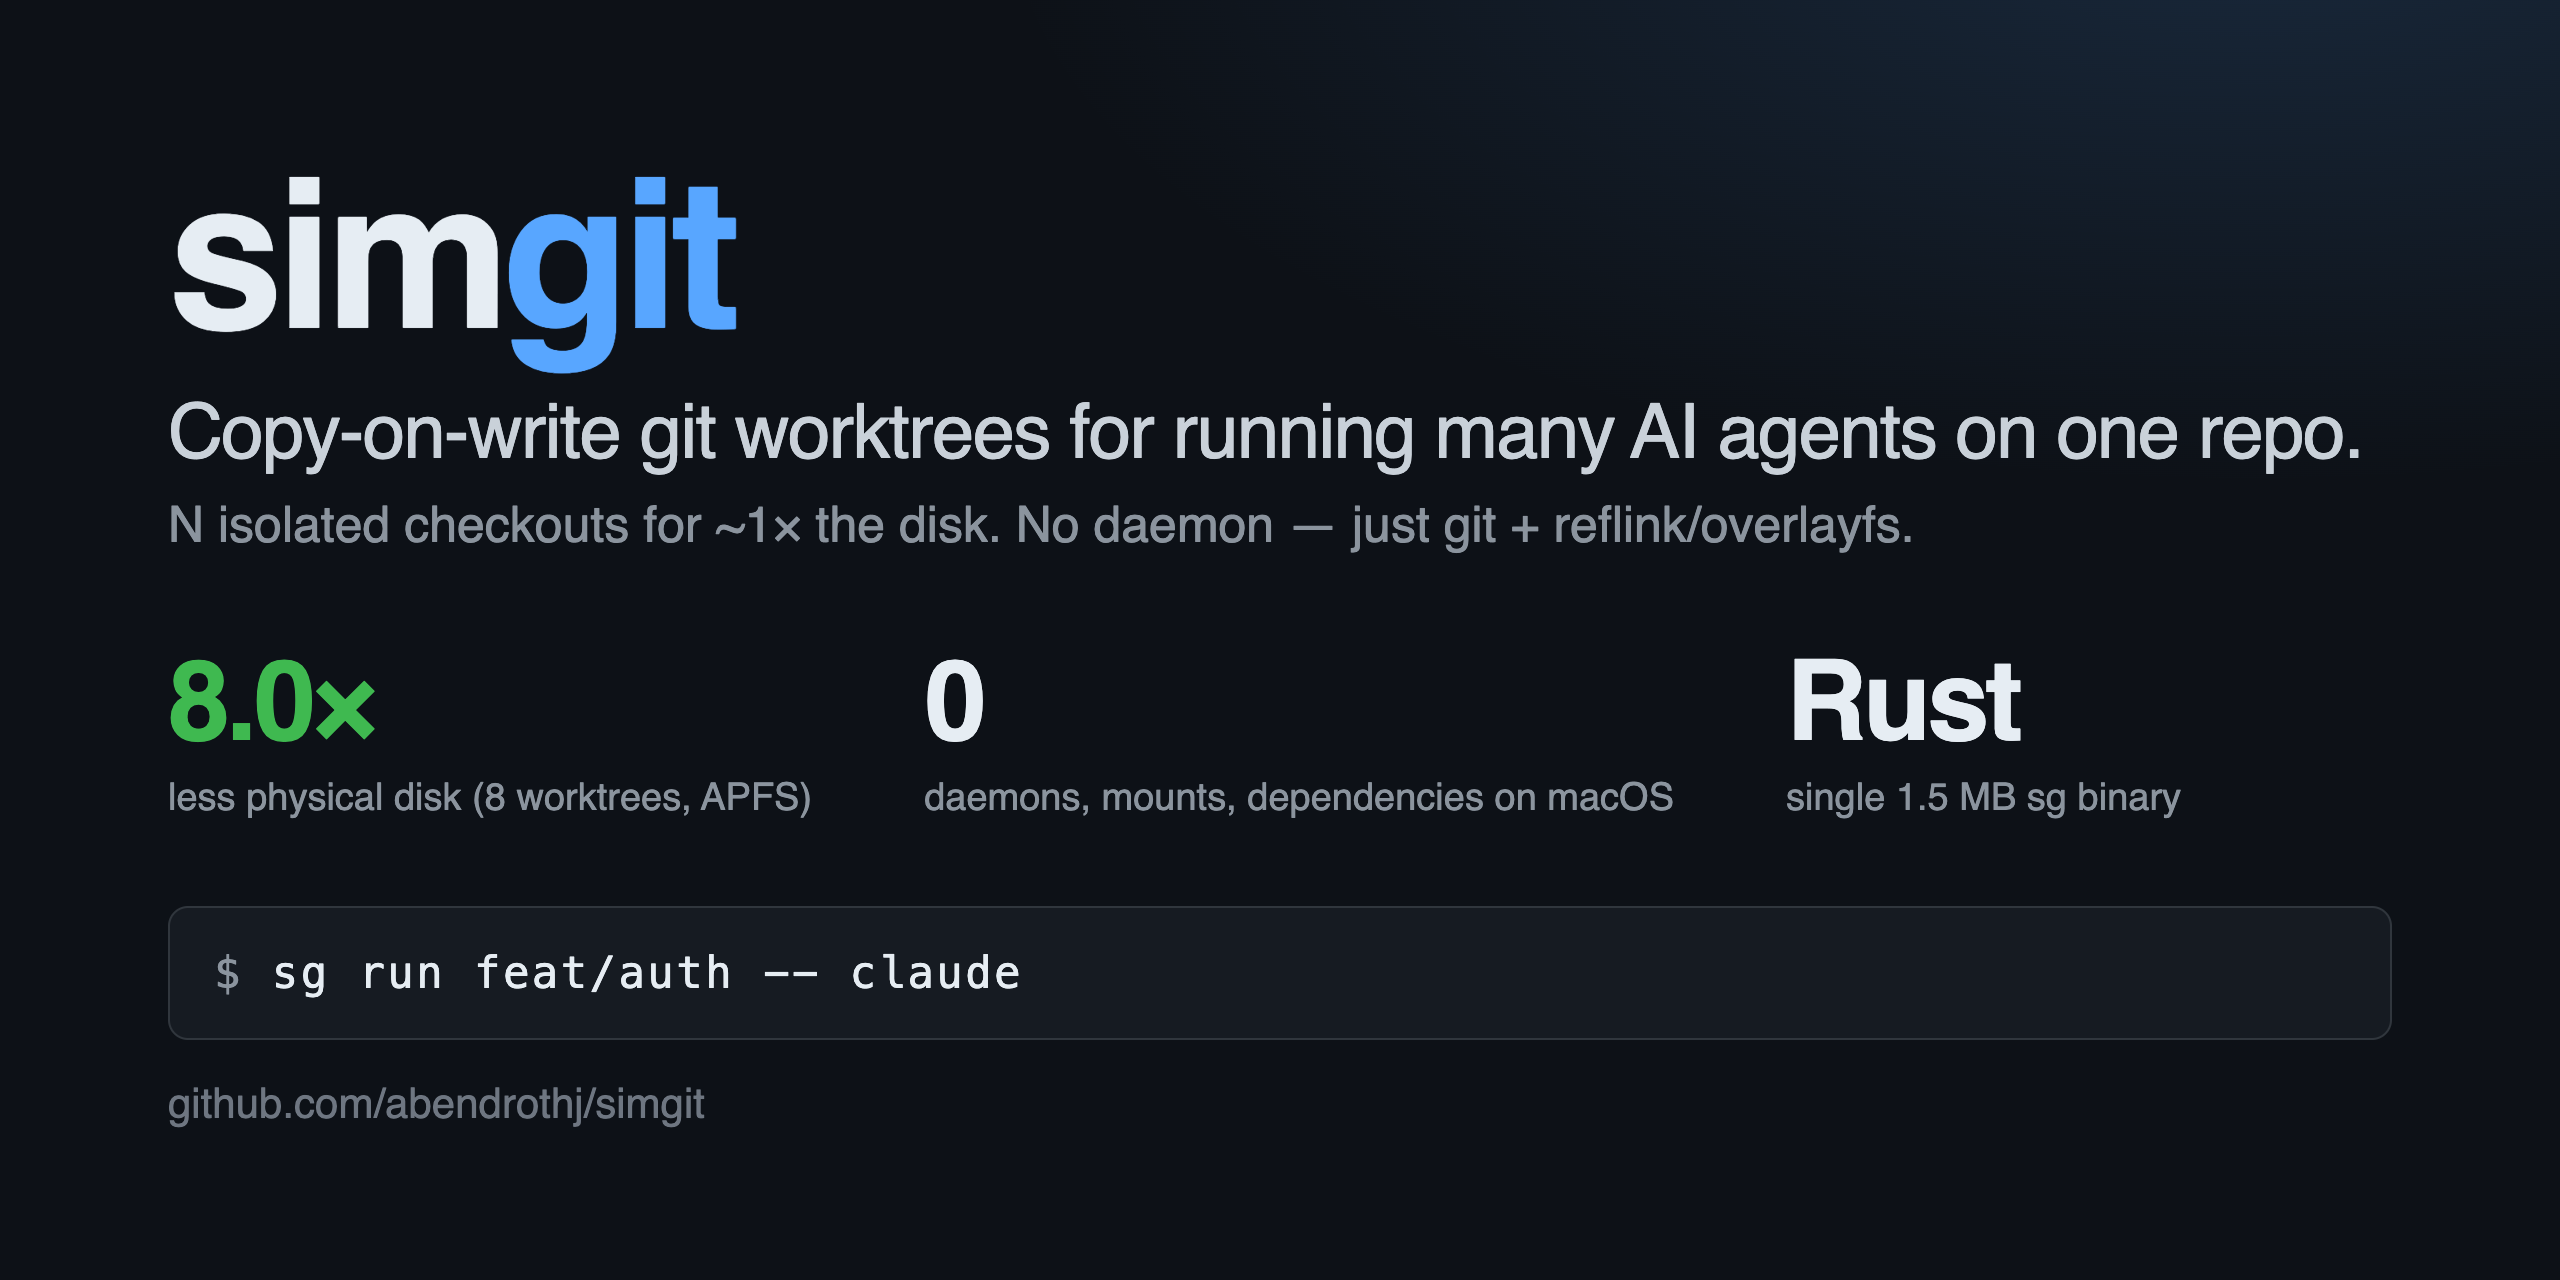
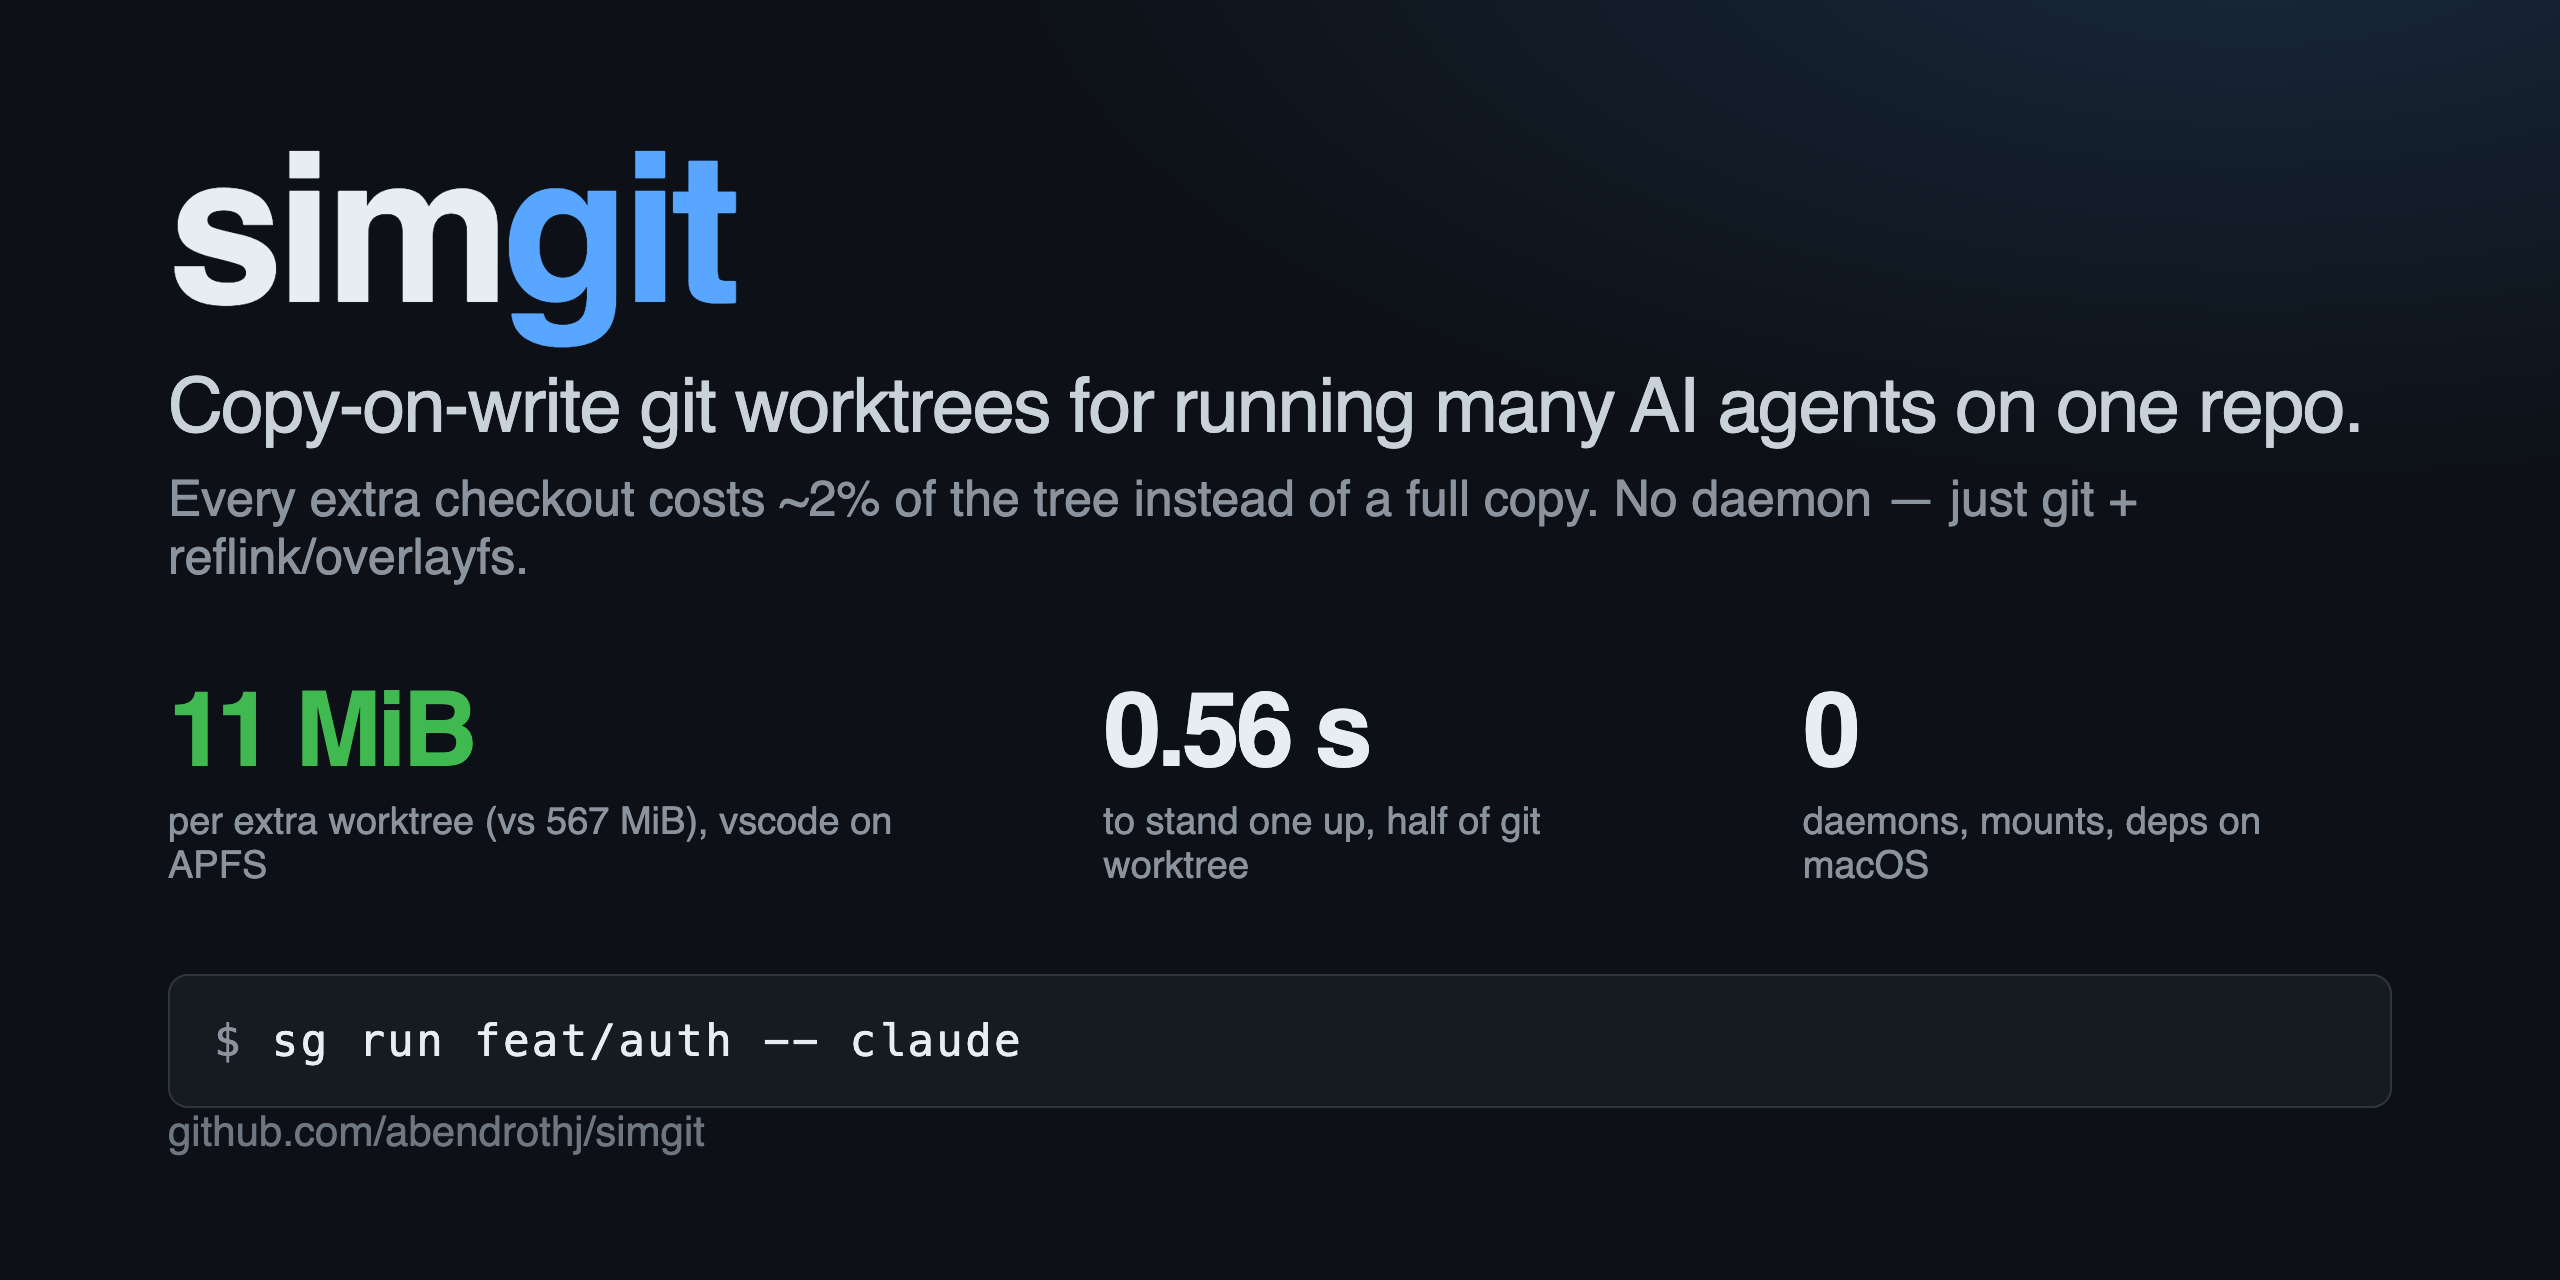
docs: state the marginal cost per worktree, not an N-multiple
"8x less physical disk with 8 worktrees" is the worktree count
restated: the same measurement yields 12x at twelve and 50x at fifty
without saying anything new, and it invites the reader to discount the
whole claim once they notice. The invariant is that simgit pays for one
tree plus a small per-worktree constant while plain git worktree pays
for a tree every time.

README and the benchmark doc now lead with that constant: on vscode
(18,707 files, 553 MiB) each additional worktree allocates ~11 MiB
against 567 MiB, so N worktrees cost tree + N x 11 MiB. The per-entry
figure (~0.30 KiB per tracked path, independent of content size) is
what makes it generalize, and it is stated as a fraction of the tree
that depends on average file size: ~2% for vscode, ~8% for 4 KiB files.

Also regenerates the social card, which led with 8.0x, and updates the
repository description to match.

diff --git a/README.md b/README.md
@@ -47,39 +47,39 @@ merges — no coordination layer, no conflict arbitration, no lock service.
 
 ### Measured
 
-Standing up eight isolated views of a 300 MiB synthetic tree (400 files) on APFS:
+The number that matters is the **marginal cost of one more worktree**, not a
+multiple: a multiple is just the worktree count restated. On a real checkout
+of `microsoft/vscode` (18,707 tracked files, 553 MiB), APFS, two runs each:
 
-| Path | Physical disk added | Cold setup |
+| | First extra worktree | Each one after that |
 |---|---:|---:|
-| 8 × `git worktree` | 2405.9–2583.4 MiB | 6.32–6.66 s |
-| 8 × `sg worktree` | 301.2 MiB | 14.10–14.15 s |
+| `git worktree` | 567 MiB (a full copy) | **567 MiB** (another full copy) |
+| `sg worktree` | ~564 MiB (one shared baseline) | **~11 MiB** (2% of the tree) |
 
-And on a real checkout of `microsoft/vscode` (18,707 tracked files, 553 MiB),
-two runs each, default Git configuration:
+So N worktrees cost `tree + N × 11 MiB` instead of `N × 567 MiB`: 640–650 MiB
+versus 4534–4536 MiB at eight, and the gap keeps widening with N because only
+one side grows. Cold setup for those eight: **6.4–7.0 s** for `sg` against
+**14.0–14.2 s** for plain `git worktree` — on macOS the whole tree is cloned
+in one `clonefile(2)` call and the worktree adopts the baseline's index, so a
+single worktree lands in 0.56 s (5.87 s on the per-file path Linux reflink
+still uses).
 
-| Path | Physical disk added | Cold setup |
-|---|---:|---:|
-| 8 × `git worktree` | 4534–4536 MiB | 14.0–14.2 s |
-| 8 × `sg worktree` | 640–650 MiB | 6.4–7.0 s |
-
-**7.0× less physical disk, and about half the setup time** — on macOS the
-whole tree is cloned in one `clonefile(2)` call and the worktree adopts the
-baseline's index, so a single worktree lands in 0.56 s against 5.87 s for the
-per-file path still used on Linux reflink filesystems. Hot read and metadata
-cost overlaps ordinary worktree I/O; the first durable write is slower while
-the filesystem splits shared extents.
-
-The disk multiple depends on average file size, not repository size: each
-worktree costs ~0.30 KiB of filesystem metadata per tracked path regardless of
-content. Trees of 4 KiB files cap out near 5×, vscode's 24 KiB average gives
-7×, and large-file repositories approach the worktree count. Full method:
+That marginal cost is filesystem metadata, **~0.30 KiB per tracked path**,
+independent of content size — so it scales with file count, and as a fraction
+of the tree it depends on average file size: ~2% for vscode's 24 KiB average,
+~8% for a tree of 4 KiB files, negligible for large-file repositories. Hot
+read and metadata cost overlaps ordinary worktree I/O; the first durable write
+is slower while the filesystem splits shared extents. Full method:
 [docs/scaling_benchmark.md](docs/scaling_benchmark.md).
+
+One baseline is materialized per distinct base commit, so branching from
+several commits costs one tree each; `sg worktree prune` reports and reclaims
+that cache.
 
 > **Measure with `df`, not `du`.** `du` reports *logical* size and cannot see
 > clonefile/reflink block-sharing, so a CoW worktree looks like a full copy to
-> it. Only `df` (physical blocks consumed) shows the real saving — e.g. 4 × `sg
-> worktree` of a 100 MB tree consumes ~97 MB physical vs ~403 MB for 4 × plain
-> `git worktree`.
+> it. Only `df` (physical blocks consumed) shows what a worktree actually
+> allocated.
 
 ## Install
 

diff --git a/docs/scaling_benchmark.md b/docs/scaling_benchmark.md
@@ -58,9 +58,14 @@ Two dedicated APFS runs, **300 MiB tree and 8 worktrees**:
 
 `du` remains intentionally shown because it catches accidental extra trees,
 but the physical allocation delta is the result that tests extent sharing.
-The native CoW path used **at least 8.0× less physical disk** for eight
-untouched worktrees, at **2.1–2.2× the cold setup time** in these sequential
-runs.
+Eight untouched worktrees cost roughly one tree, at **2.1–2.2× the cold setup
+time** in these sequential runs.
+
+> **Report the marginal cost, not a multiple.** "8× less disk with 8
+> worktrees" is the worktree count restated — the same run yields 12× at
+> twelve and 50× at fifty, which says nothing new. The invariant is that the
+> CoW path pays for one tree plus a small per-worktree constant, while plain
+> `git worktree` pays for a tree every time.
 
 ### Real repository: microsoft/vscode
 
@@ -68,13 +73,14 @@ Synthetic trees understate per-file cost, so the same comparison was run on a
 `--depth 1` clone of `microsoft/vscode` — **18,707 tracked files, 553 MiB of
 tracked content** — with 8 worktrees on APFS, two runs each, September 8, 2026:
 
-| Path | Physical allocation delta | Cold setup |
-|---|---:|---:|
-| Git worktrees | 4534–4536 MiB | 14.0–14.2 s |
-| `sg worktree` | 640–650 MiB | 6.4–7.0 s |
+| Path | Physical allocation delta | Per worktree | Cold setup |
+|---|---:|---:|---:|
+| Git worktrees | 4534–4536 MiB | 567 MiB | 14.0–14.2 s |
+| `sg worktree` | 640–650 MiB | ~11 MiB after the baseline | 6.4–7.0 s |
 
-**7.0× less physical disk at half the setup time.** The `sg` figure is one
-materialized baseline (553 MiB) plus per-worktree filesystem metadata.
+The `sg` figure is one materialized baseline (553 MiB) plus ~11 MiB of
+per-worktree filesystem metadata, so total disk is `tree + N × 11 MiB` against
+`N × 567 MiB`. Setup is half of plain `git worktree`, not a tradeoff.
 
 ### Whole-tree cloning
 
@@ -132,12 +138,14 @@ synthetic tree, `df` deltas per worktree:
 | 101,001 | 390 MiB | 31,203 KiB | 31,222 KiB |
 | 10,101 | 2,500 MiB | 3,087 KiB | 3,106 KiB |
 
-That is ~0.30 KiB per tracked path, unchanged when content grows 64×. The
-disk multiple therefore depends on average file size: N worktrees of a tree
-with `bytes` of content and `entries` paths cost
-`bytes + N × 0.30 KiB × entries`. Trees of 4 KiB files cap near 5× at eight
-worktrees, vscode's 24 KiB average yields 7×, and large-file repositories
-approach N.
+That is ~0.30 KiB per tracked path, unchanged when content grows 64×. So N
+worktrees of a tree with `bytes` of content and `entries` paths cost
+`bytes + N × 0.30 KiB × entries`, and the marginal worktree costs
+`0.30 KiB × entries` however large N gets. What varies between repositories
+is that constant as a fraction of the tree — set by average file size, not
+repository size: ~2% at vscode's 24 KiB average, ~8% for a tree of 4 KiB
+files, negligible when files are large. A repository of many tiny files is
+where the technique pays least.
 
 Baselines published before stat adoption carry no index and fall back to the
 per-file path, as does Linux, which has no directory-level reflink.
